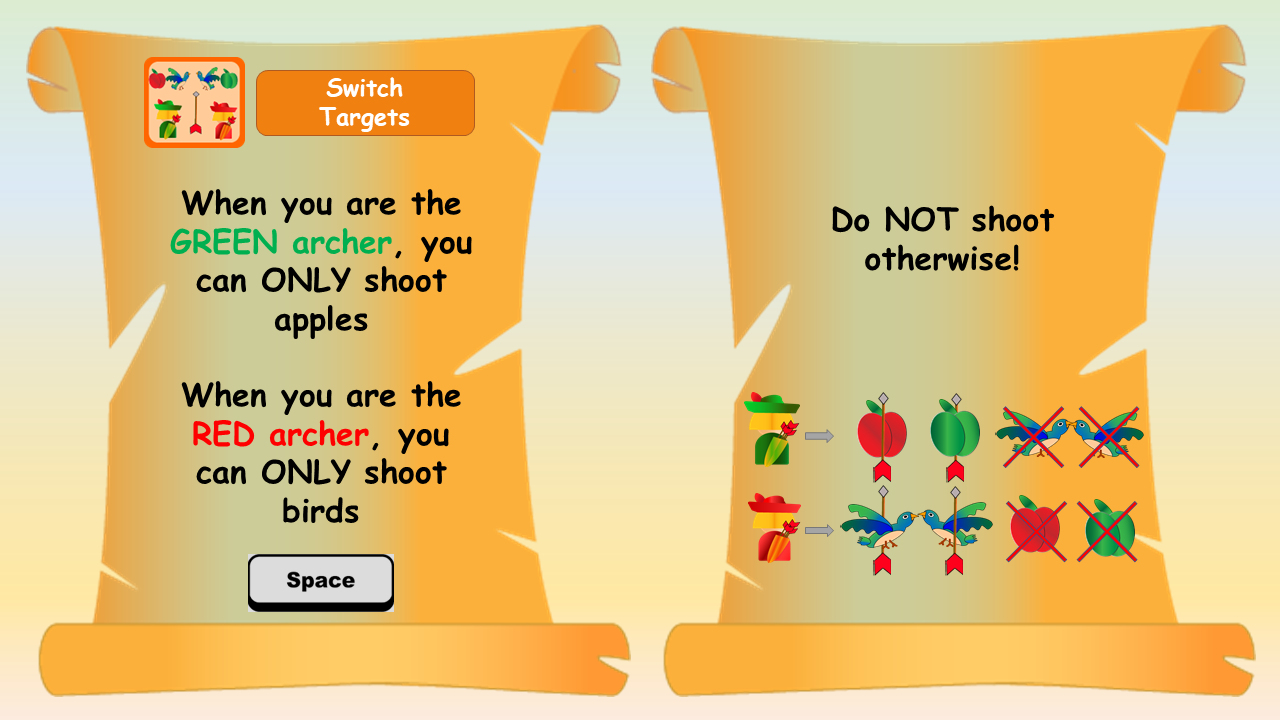
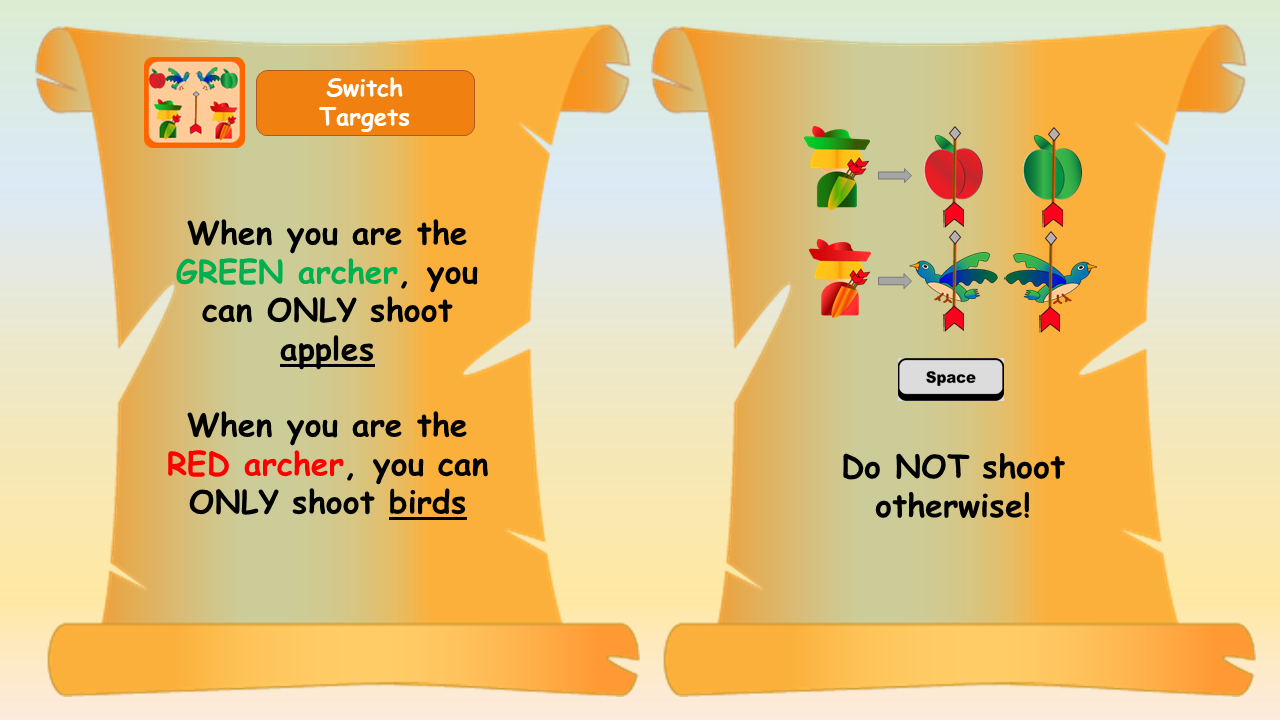
test ready

diff --git a/index.html b/index.html
@@ -34,15 +34,15 @@
 					<br><br>
 					Age: <input type="text" id="age" name="age"><br><br>
 					Gender: <input type="radio" name="gender" value="1"> Boy&nbsp 
-					<input type="radio" name="gender" value="2"> Girl&nbsp <br><br>
+					<input type="radio" name="gender" value="2"> Girl&nbsp <br><br><br>
 					<!--Session: <input type="radio" name="session_type" value="1"> Try&nbsp 
 					<input type="radio" name="session_type" value="2"> Home&nbsp 
-					<input type="radio" name="session_type" value="3"> Study&nbsp  <br><br> -->
+					<input type="radio" name="session_type" value="3"> Study&nbsp  <br><br> 
 					Create participant: <input type="radio" name="participant" value="1"> No 
-					<input type="radio" name="participant" value="2"> Yes &nbsp <br><br>
+					<input type="radio" name="participant" value="2"> Yes &nbsp <br><br> -->
 					Comment: <input type="text" id="comment" name="comment"><br><br><br><br>
-					<button type="button" onClick= "start_session();" >Start Session</button> 
-					<button type="button" onClick= "start_session();" >Try Game</button> 
+					<button type="button" onClick= "start_session();" >Start Full Session</button> 
+					<button type="button" onClick= "try_session();" >Try Game</button> 
 			</div>
 		</div>
 
@@ -458,9 +458,9 @@
 		</div>
 		<div id="tutorial" class="modal" >
 			<!-- Modal content -->
-			<div class="modal-content" style="height: 550px; background-color: grey; padding-left: 200px; padding-top: 50px; ">
+			<div class="modal-content" style="height: 550px; background-color: grey; padding-left: 100px; padding-top: 50px; ">
 				<span id= "close2" class="close">&times;</span>
-				<div id="tutorial_pic" style="width: 80%; height: 100%; text-align: center;  background-size: 100% 100%; background-color: grey; ">
+				<div id="tutorial_pic" style="width: 90%; height: 100%; text-align: center;  background-size: 100% 100%; background-color: grey; ">
 				</div>
 			</div>
 		</div>

diff --git a/game.js b/game.js
@@ -193,8 +193,7 @@ function new_target() {
     round_scores = estimate_scores(user_response, EXPECTED, user_movement);
     window.alert("You got " + cpoints.toString() + ' points!!! \n Well Done!!!');
 
-    if (practice == 0) {
-      show_likert();
+    if (practice == 0) { 
       document.getElementById('totalb').style.left = scores[5]/2.0 + 'px';
       document.getElementById('score1b').style.left = scores[0] + 'px';
       document.getElementById('score2b').style.left = scores[1] + 'px';
@@ -216,6 +215,17 @@ function new_target() {
       table_entry.push(te);
       updateTable(round, te);
       round++;
+	  if (record == 1)
+		show_likert();
+	  else {
+		survey_data = []; 
+		mygame.style.display = 'none';
+		document.getElementById('screen_prounds').innerHTML = 'Practice Rounds Played: ' + prounds;
+		survey_data = [];
+		push_data();
+		practice = 0;
+		BackToGame();
+		}
     } else {
       mygame.style.display = 'none';
       document.getElementById('screen_prounds').innerHTML = 'Practice Rounds Played: ' + prounds;
@@ -320,9 +330,11 @@ function push_data() {
 	  };  
 	  log_data.push(log_object); 
   });
-  postManyLog(log_data);
-  postSession(session_data);
-  if (practice == 0) postSurvey(survey_data); // object - add to collection if not practice (session_data OR survey_data)
+  if (record){
+	postManyLog(log_data);
+	postSession(session_data);
+	if (practice == 0) postSurvey(survey_data); // object - add to collection if not practice (session_data OR survey_data)
+  }
   ACTIVITY_LOG = [];
 }
 

diff --git a/index.js b/index.js
@@ -184,7 +184,8 @@ function start_session(){
 		gender: v.toString(), 
 		label: comment	
 	};
-	postPlayer(plogin); 
+	if (record)
+		postPlayer(plogin); 
 	document.getElementById("loginform").style.display = "none";
 	
 	ACTIVITY_LOG = [[id, 0, 'NEW', '0', performance.now().toString()]];
@@ -192,6 +193,12 @@ function start_session(){
 	table_entry = []; // round ID, T1 ,T2, T3, T4, Speed, Difficulty, Score, Points
 }
 
+function try_session(){
+	record = 0; 
+	start_session(); 
+}
+
+record = 1; 
 authenticate(); 
 // Get the modal
 var modal = document.getElementById('myModal');
